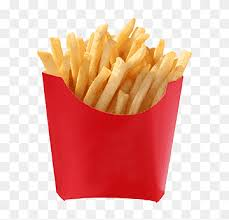
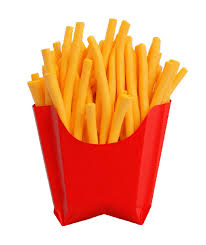
'Добавил стили для кнопое и поменял изображение с фоном'

diff --git a/src/Components/FoodBtn/FoodBtn.css b/src/Components/FoodBtn/FoodBtn.css
@@ -1,9 +1,44 @@
-.img-btn{
-  width: 162px;
-  height: 125px;
+.img-btn {
+  width: 144px;
+  height: 116px;
+  margin-right: 10px;
 }
-.add-container{
-  width: 56%;
+
+.add-container {
+  width: 50%;
   display: flex;
-  margin-left: auto;
+  flex-direction: column;
+  margin-right: auto;
 }
+
+.btn-container {
+  display: flex;
+  flex-wrap: wrap;
+  gap: 16px;
+  justify-content: flex-start;
+}
+
+.btn-item {
+  flex: 0 1 calc(50% - 16px);
+  box-sizing: border-box;
+}
+
+button {
+  display: flex;
+  align-items: center;
+  padding: 10px;
+  border: 1px solid #ccc;
+  border-radius: 4px;
+  background-color: #fff;
+  cursor: pointer;
+  width: 100%;
+  box-sizing: border-box;
+}
+
+.item-info {
+  display: flex;
+  flex-direction: column;
+  align-items: flex-start;
+  font-size: 18px;
+}
+

diff --git a/src/App.tsx b/src/App.tsx
@@ -8,11 +8,13 @@ const App = () => {
   const [items, setItems] = useState<Items[]>([]);
   return (
     <>
-      <div className={'add-container'}>
+      <div className="add-container">
         <h2>Add Items</h2>
-    {ITEMS.map((item, index) => (
-      <FoodBtn key={index} item={item} />
-    ))}
+        <div className="btn-container">
+          {ITEMS.map((item, index) => (
+            <FoodBtn key={index} item={item}/>
+          ))}
+        </div>
       </div>
     </>
   )

diff --git a/src/Components/FoodBtn/FoodBtn.tsx b/src/Components/FoodBtn/FoodBtn.tsx
@@ -7,11 +7,13 @@ interface FoodBtnProps {
 
 const FoodBtn:React.FC<FoodBtnProps> = ({item}) => {
   return (
-    <div>
+    <div className={'btn-item'}>
 <button>
   <img src={item.image} alt={item.name}  className={'img-btn'}/>
-  <p>{item.name}</p>
-  <p>Price: {item.price}</p>
+  <div className={'item-info'}>
+  <strong>{item.name}</strong>
+  <p>Price: {item.price} KGS</p>
+  </div>
 </button>
     </div>
   );
